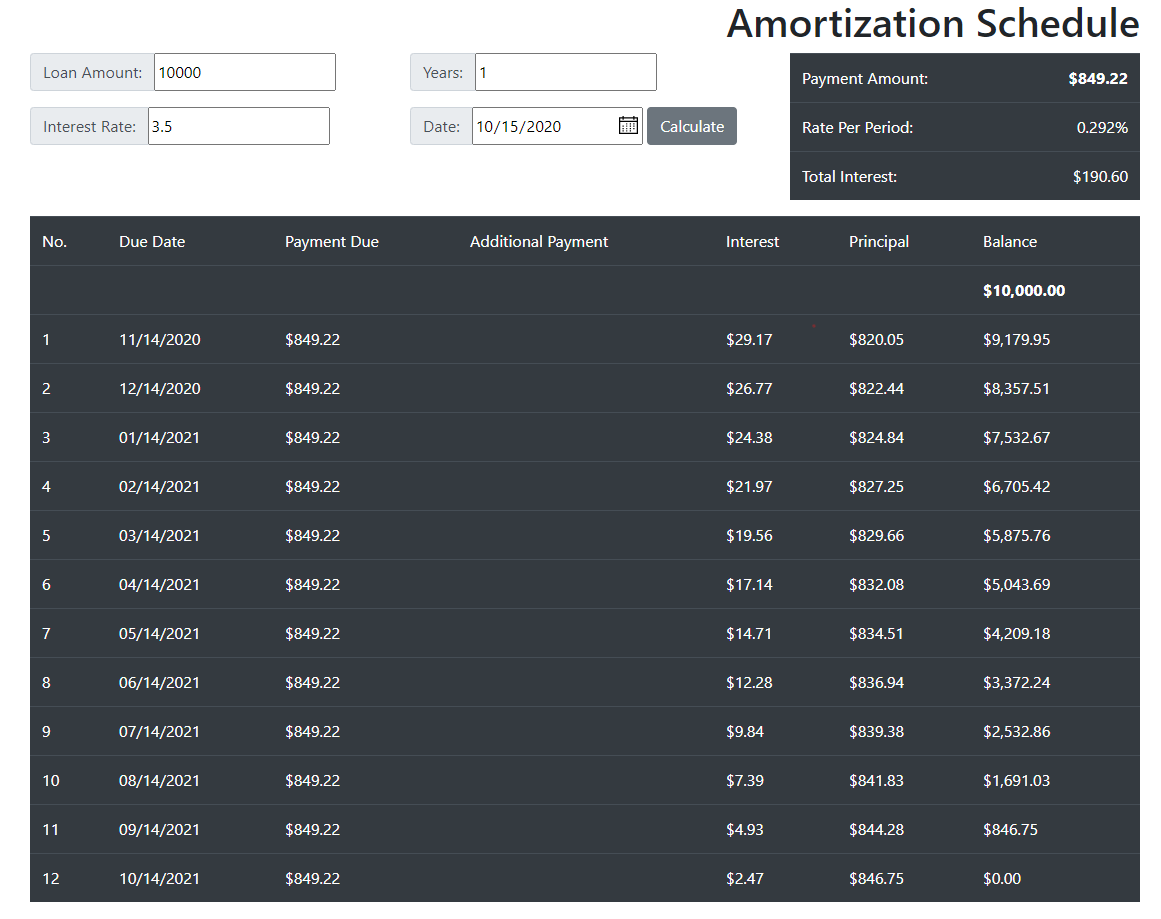
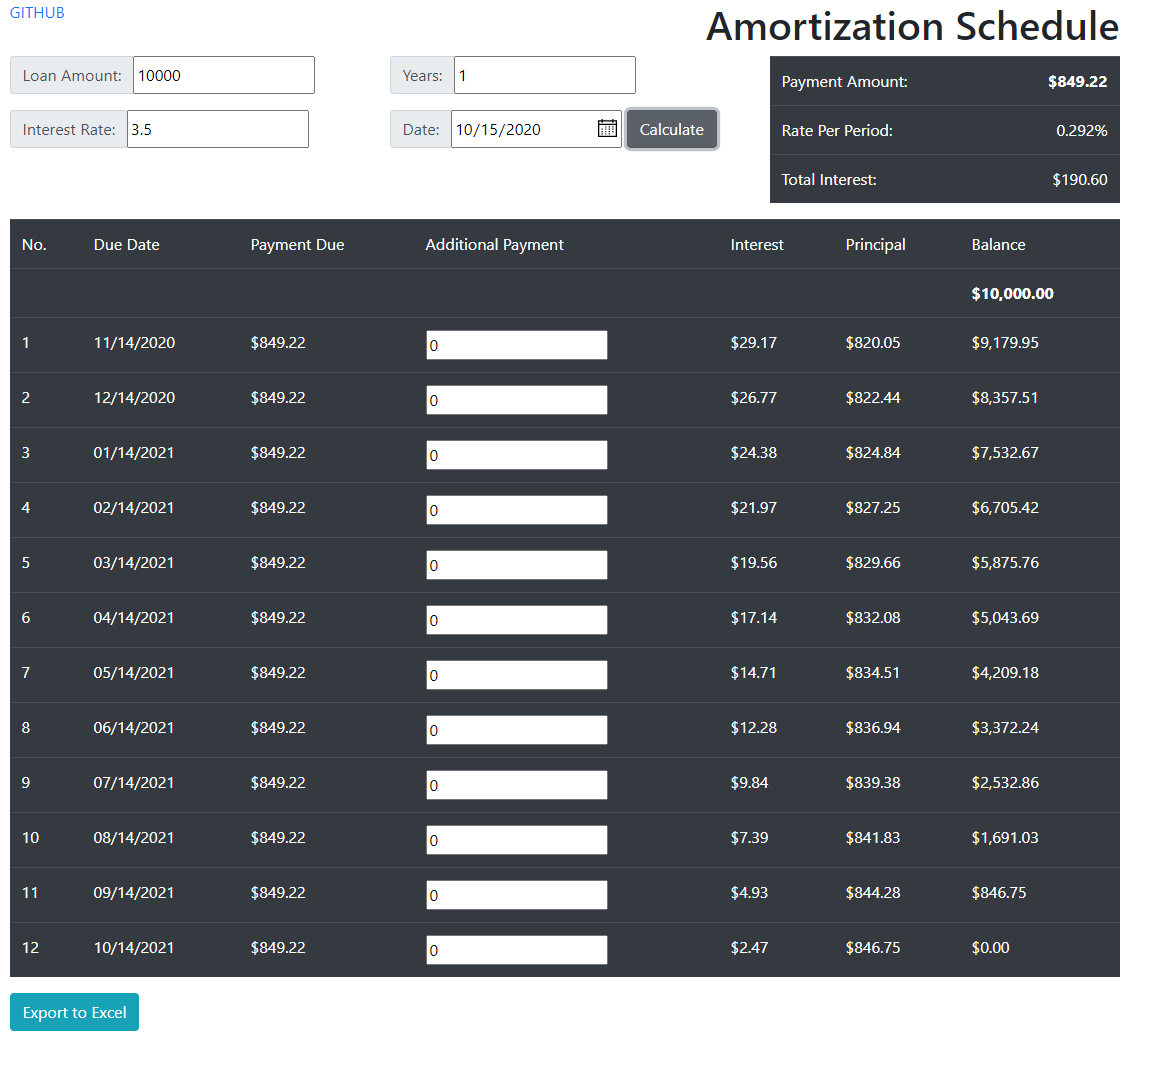
add additional payment

diff --git a/index.html b/index.html
@@ -106,9 +106,10 @@
             </div>
         </div>
 
-        <a id="dlink"  style="display:none;"></a>
+        <a id="dlink" style="display:none;"></a>
 
-        <input type="button" class="btn btn-info" disabled="disabled" onclick="tableToExcel('results', 'Amortization Schedule', 'Amortization.xls')" value="Export to Excel">
+        <input type="button" class="btn btn-info" disabled="disabled"
+            onclick="tableToExcel('results', 'Amortization Schedule', 'Amortization.xls')" value="Export to Excel">
     </div>
 
 
@@ -123,7 +124,15 @@
             // maximumFractionDigits: 0,
         });
 
-
+        var delay = (function () {
+            var timer = null;
+            return function (callback, ms) {
+                clearTimeout(timer);
+                timer = setTimeout(() => {
+                    callback();
+                }, ms);
+            }
+        })();
 
 
 
@@ -150,10 +159,18 @@
 
             var totalInterestPayments = 0;
             for (var paymentNumber = 1; paymentNumber <= numberOfPayments; paymentNumber++) {
-
-
+                var terminate = false;
+                var additionalPaymentAmount = GetAdditionalPayment(paymentNumber);
                 var interestPayment = ratePerPeriod * runningAmount * .01;
-                var principalPayment = monthlyPayment - interestPayment;
+
+                if(runningAmount - principalPayment < 0) {
+                    monthlyPayment =  runningAmount + interestPayment;
+                    additionalPaymentAmount = 0;
+                    terminate = true;
+                }
+
+                var principalPayment = (monthlyPayment + additionalPaymentAmount) - interestPayment;
+                
                 runningAmount = runningAmount - principalPayment;
                 totalInterestPayments += interestPayment;
 
@@ -161,10 +178,12 @@
                     paymentNumber,
                     getFormattedDate(new Date(paymentDate).addMonths(paymentNumber)),
                     formatter.format(monthlyPayment),
+                    additionalPaymentAmount,
                     formatter.format(interestPayment),
                     formatter.format(principalPayment),
                     formatter.format(runningAmount)
                 );
+                if(terminate) break;
 
             }
 
@@ -181,12 +200,12 @@
         }
 
 
-        function CreateEntry(num, dueDt, payDue, interest, principal, balance) {
+        function CreateEntry(num, dueDt, payDue, addtlPay, interest, principal, balance) {
             var str = "<tr>" +
                 "<td>" + num + "</td>" +
                 "<td>" + dueDt + "</td>" +
                 "<td>" + payDue + "</td>" +
-                "<td></td>" +
+                "<td> <input type='text' data-pmtnumber='" + num + "' name='additionalPayment' onkeyup='additionalPaymentKeyUp(this)' value='" + addtlPay + "'></input> </td>" +
                 "<td>" + interest + "</td>" +
                 "<td>" + principal + "</td>" +
                 "<td>" + balance + "</td>" +
@@ -206,6 +225,61 @@
             return dfs;
         };
 
+        function GetAdditionalPayment(paymentNumber) {
+            var additionalPaymentAmount = 0;
+            var storageData = localStorage.getItem("additionalPayments");
+
+            if (storageData && storageData.indexOf('{') > -1) {
+                var jsonStored = JSON.parse(storageData);
+                for (var item in jsonStored) {
+                    if (jsonStored[item].paymentNumber == paymentNumber) {
+                        additionalPaymentAmount = parseFloat(jsonStored[item].additionalPayment);
+                    }
+                }
+            }
+
+            return additionalPaymentAmount;
+        }
+
+        function additionalPaymentKeyUp(input) {
+            delay(() => {
+                var tr = $(input).parent().parent();
+                var additionalPaymentAmount = $(input).val();
+                var paymentNumber = parseInt($(input).data("pmtnumber"));
+
+                var data = {
+                    paymentNumber: paymentNumber,
+                    additionalPayment: isNaN(additionalPaymentAmount) ? 0 : additionalPaymentAmount
+                };
+
+                var storageData = localStorage.getItem("additionalPayments");
+
+                if (storageData && storageData.indexOf('{') > -1) {
+
+                    var jsonStored = JSON.parse(storageData);
+                    var isUpdated = false;
+                    for (var item in jsonStored) {
+                        if (jsonStored[item].paymentNumber == data.paymentNumber) {
+                            jsonStored[item].additionalPayment = data.additionalPayment;
+                            isUpdated = true;
+                        }
+                    }
+                    if (!isUpdated) {
+                        jsonStored.push(data);
+                    }
+                    localStorage.setItem("additionalPayments", JSON.stringify(jsonStored));
+                } else {
+                    var save = [];
+                    save.push(data);
+                    localStorage.setItem("additionalPayments", JSON.stringify(save));
+                }
+
+                storageData = localStorage.getItem("additionalPayments");
+
+                console.log(storageData);
+                Calculate();
+            }, 1000)
+        }
 
         function getFormattedDate(date) {
             var year = date.getFullYear();
